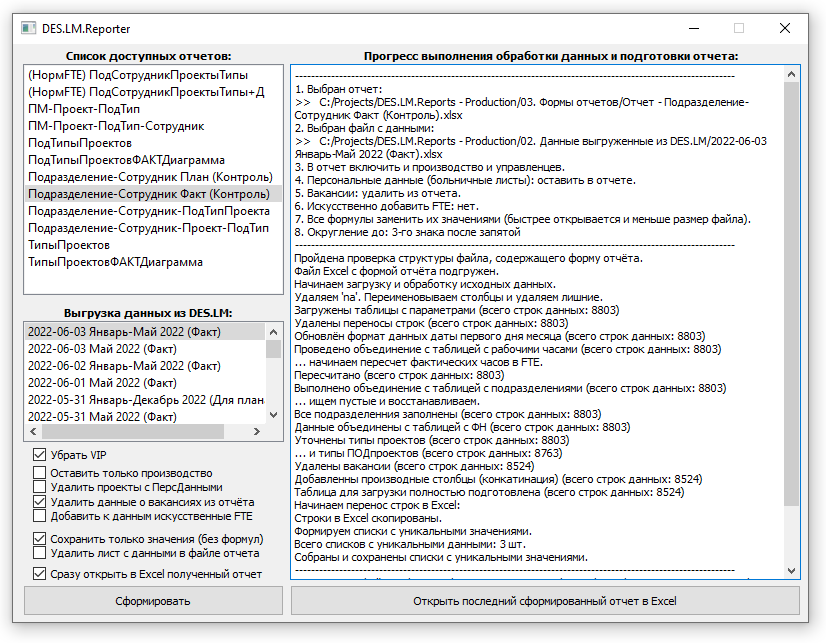
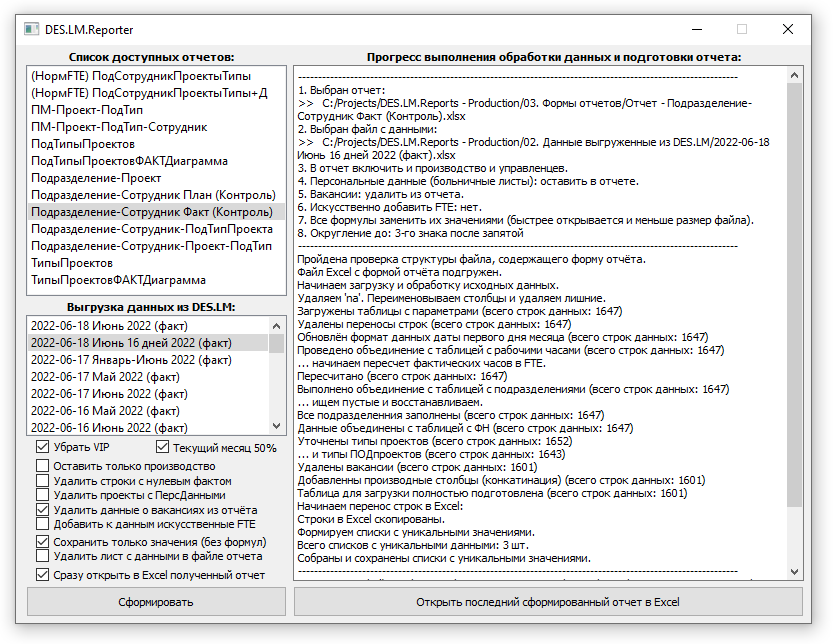
Added new two check boxes:  - to exclude rows without fact data;  - to make month hour-norm divided by two.
Added constants for this elements.

Added screen of main window.

Functionality will be added later.

Changed region(s): [[0.0, 0.0311, 0.9988, 0.9642], [0.4843, 0.9331, 0.8172, 0.9642], [0.1513, 0.9331, 0.2421, 0.9642]]

diff --git a/mainform.py b/mainform.py
@@ -15,6 +15,7 @@ from myutils import load_param, save_param
 class Communicate(QObject):
     updateStatusText = pyqtSignal()
 
+# ------------------------------------------------------------------- #
 class Ui_MainWindow(object):
     def setupUi(self, MainWindow):
         MainWindow.setObjectName("MainWindow")
@@ -170,7 +171,7 @@ class Ui_MainWindow(object):
         self.checkBoxDelRawData.setObjectName("checkBoxDelRawData")
         self.checkBoxDeleteVIP = QtWidgets.QCheckBox(self.centralwidget)
         self.checkBoxDeleteVIP.setEnabled(True)
-        self.checkBoxDeleteVIP.setGeometry(QtCore.QRect(20, 391, 221, 21))
+        self.checkBoxDeleteVIP.setGeometry(QtCore.QRect(20, 391, 81, 21))
         sizePolicy = QtWidgets.QSizePolicy(QtWidgets.QSizePolicy.Minimum, QtWidgets.QSizePolicy.Fixed)
         sizePolicy.setHorizontalStretch(0)
         sizePolicy.setVerticalStretch(0)
@@ -190,6 +191,17 @@ class Ui_MainWindow(object):
         self.checkBoxDeleteWithoutFact.setChecked(True)
         self.checkBoxDeleteWithoutFact.setAutoRepeat(False)
         self.checkBoxDeleteWithoutFact.setObjectName("checkBoxDeleteWithoutFact")
+        self.checkBoxCurrMonthAHalf = QtWidgets.QCheckBox(self.centralwidget)
+        self.checkBoxCurrMonthAHalf.setEnabled(True)
+        self.checkBoxCurrMonthAHalf.setGeometry(QtCore.QRect(140, 392, 131, 20))
+        sizePolicy = QtWidgets.QSizePolicy(QtWidgets.QSizePolicy.Minimum, QtWidgets.QSizePolicy.Fixed)
+        sizePolicy.setHorizontalStretch(0)
+        sizePolicy.setVerticalStretch(0)
+        sizePolicy.setHeightForWidth(self.checkBoxCurrMonthAHalf.sizePolicy().hasHeightForWidth())
+        self.checkBoxCurrMonthAHalf.setSizePolicy(sizePolicy)
+        self.checkBoxCurrMonthAHalf.setChecked(True)
+        self.checkBoxCurrMonthAHalf.setAutoRepeat(False)
+        self.checkBoxCurrMonthAHalf.setObjectName("checkBoxCurrMonthAHalf")
         MainWindow.setCentralWidget(self.centralwidget)
 
         self.retranslateUi(MainWindow)
@@ -224,7 +236,8 @@ class Ui_MainWindow(object):
         self.checkBoxDelRawData.setText(_translate("MainWindow", "Удалить лист с данными в файле отчета"))
         self.checkBoxDeleteVIP.setText(_translate("MainWindow", "Убрать VIP"))
         self.checkBoxDeleteWithoutFact.setText(_translate("MainWindow", "Удалить строки с нулевым фактом"))
-    # ------------------------------------------------------------------- #
+        self.checkBoxCurrMonthAHalf.setText(_translate("MainWindow", "Текущий месяц 50%"))
+# ------------------------------------------------------------------- #
 
     closeApp = pyqtSignal()
     exit_in_process = False
@@ -290,6 +303,7 @@ class Ui_MainWindow(object):
         save_param(s_preff + myconstants.PARAMETER_SAVED_VALUE_DELETE_VIP, self.checkBoxDeleteVIP.isChecked())
         save_param(s_preff + myconstants.PARAMETER_SAVED_VALUE_DELETE_NONPROD, self.checkBoxDeleteNotProduct.isChecked())
         save_param(s_preff + myconstants.PARAMETER_SAVED_VALUE_DELETE_EMPTYFACT, self.checkBoxDeleteWithoutFact.isChecked())
+        save_param(s_preff + myconstants.PARAMETER_SAVED_VALUE_DELETE_CURRMONTHHALF, self.checkBoxCurrMonthAHalf.isChecked())
         save_param(s_preff + myconstants.PARAMETER_SAVED_VALUE_DELETE_PERSDATA, self.checkBoxDelPDn.isChecked())
         save_param(s_preff + myconstants.PARAMETER_SAVED_VALUE_DELETE_VAC, self.checkBoxDeleteVac.isChecked())
         save_param(s_preff + myconstants.PARAMETER_SAVED_VALUE_ADD_VFTE, self.checkBoxAddVFTE.isChecked())
@@ -314,6 +328,8 @@ class Ui_MainWindow(object):
             load_param(s_preff + myconstants.PARAMETER_SAVED_VALUE_DELETE_NONPROD, myconstants.PARAMETER_SAVED_VALUE_DELETE_NONPROD_DEFVALUE))
         self.checkBoxDeleteWithoutFact.setChecked(\
             load_param(s_preff + myconstants.PARAMETER_SAVED_VALUE_DELETE_EMPTYFACT, myconstants.PARAMETER_SAVED_VALUE_DELETE_EMPTYFACT_DEFVALUE))
+        self.checkBoxCurrMonthAHalf.setChecked(\
+            load_param(s_preff + myconstants.PARAMETER_SAVED_VALUE_DELETE_CURRMONTHHALF, myconstants.PARAMETER_SAVED_VALUE_DELETE_CURRMONTHHALF_DEFVALUE))
         self.checkBoxDelPDn.setChecked(\
             load_param(s_preff + myconstants.PARAMETER_SAVED_VALUE_DELETE_PERSDATA, myconstants.PARAMETER_SAVED_VALUE_DELETE_PERSDATA_DEFVALUE))
         self.checkBoxDeleteVac.setChecked(\
@@ -341,6 +357,7 @@ class Ui_MainWindow(object):
         self.checkBoxDeleteVIP.clicked.connect(self.on_click_CheckBoxes)
         self.checkBoxDeleteNotProduct.clicked.connect(self.on_click_CheckBoxes)
         self.checkBoxDeleteWithoutFact.clicked.connect(self.on_click_CheckBoxes)
+        self.checkBoxCurrMonthAHalf.clicked.connect(self.on_click_CheckBoxes)
         self.checkBoxDelPDn.clicked.connect(self.on_click_CheckBoxes)
         self.checkBoxDeleteVac.clicked.connect(self.on_click_CheckBoxes)
         self.checkBoxAddVFTE.clicked.connect(self.on_click_CheckBoxes)

diff --git a/myconstants.py b/myconstants.py
@@ -137,6 +137,7 @@ PARAMETER_FILENAME_OF_LAST_REPORT = "Последний сформированн
 PARAMETER_SAVED_VALUE_DELETE_VIP = "Удалить VIP?"
 PARAMETER_SAVED_VALUE_DELETE_NONPROD = "Удалять не производственные подразделения?"
 PARAMETER_SAVED_VALUE_DELETE_EMPTYFACT = "Удалять строки не содержащие факта (факт=0)?"
+PARAMETER_SAVED_VALUE_DELETE_CURRMONTHHALF = "Текущий месяц расчитывать от половины нормы часов?"
 PARAMETER_SAVED_VALUE_DELETE_PERSDATA = "Удалять проекты с персональными данныи?"
 PARAMETER_SAVED_VALUE_DELETE_VAC = "Удалять ли вакансии из отчёта?"
 PARAMETER_SAVED_VALUE_ADD_VFTE = "Дабавить к списку сырых данных искусственные FTE?"
@@ -149,6 +150,7 @@ DO_IT_PREFFIX = ""
 PARAMETER_SAVED_VALUE_DELETE_VIP_DEFVALUE = False
 PARAMETER_SAVED_VALUE_DELETE_NONPROD_DEFVALUE = False
 PARAMETER_SAVED_VALUE_DELETE_EMPTYFACT_DEFVALUE = False
+PARAMETER_SAVED_VALUE_DELETE_CURRMONTHHALF_DEFVALUE = False
 PARAMETER_SAVED_VALUE_DELETE_PERSDATA_DEFVALUE = False
 PARAMETER_SAVED_VALUE_DELETE_VAC_DEFVALUE = True
 PARAMETER_SAVED_VALUE_ADD_VFTE_DEFVALUE = False
